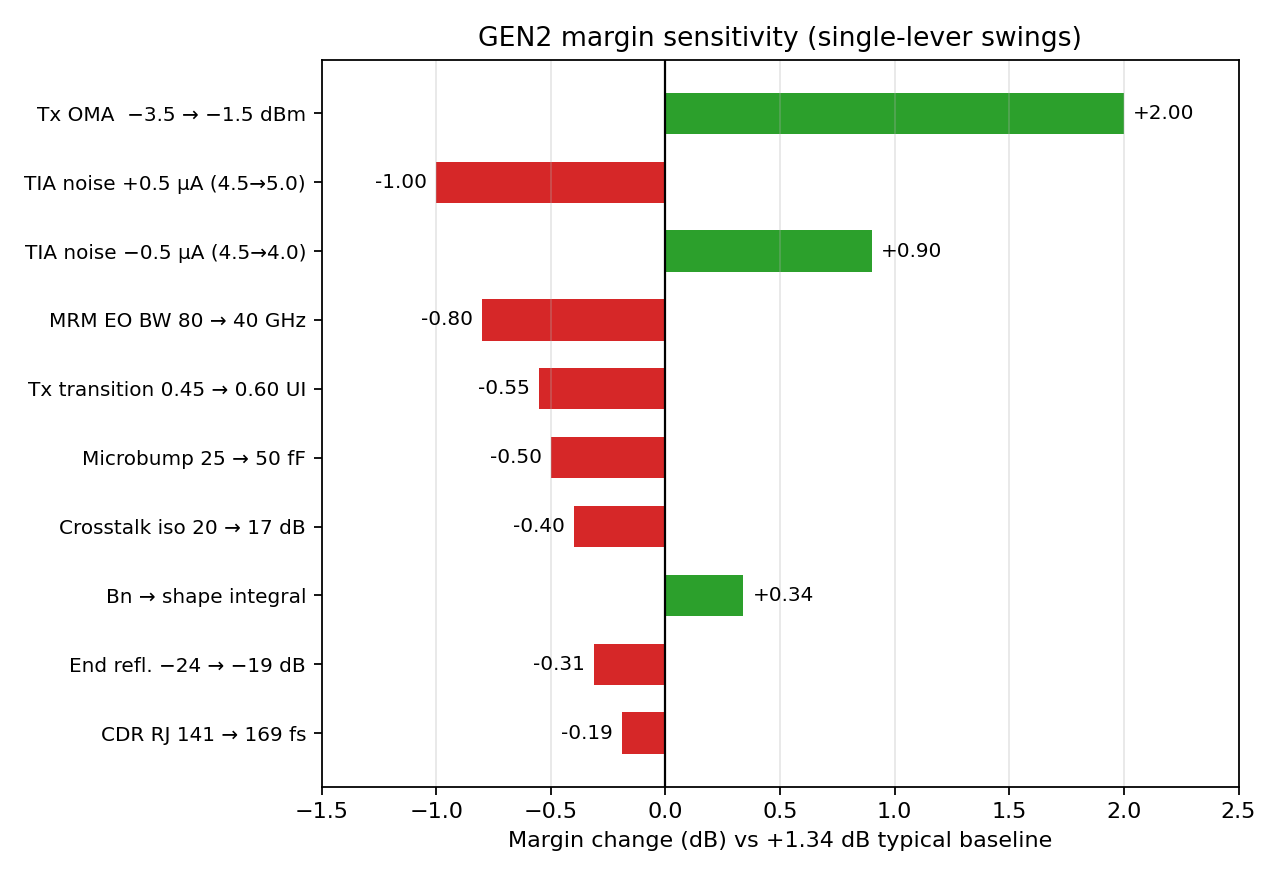
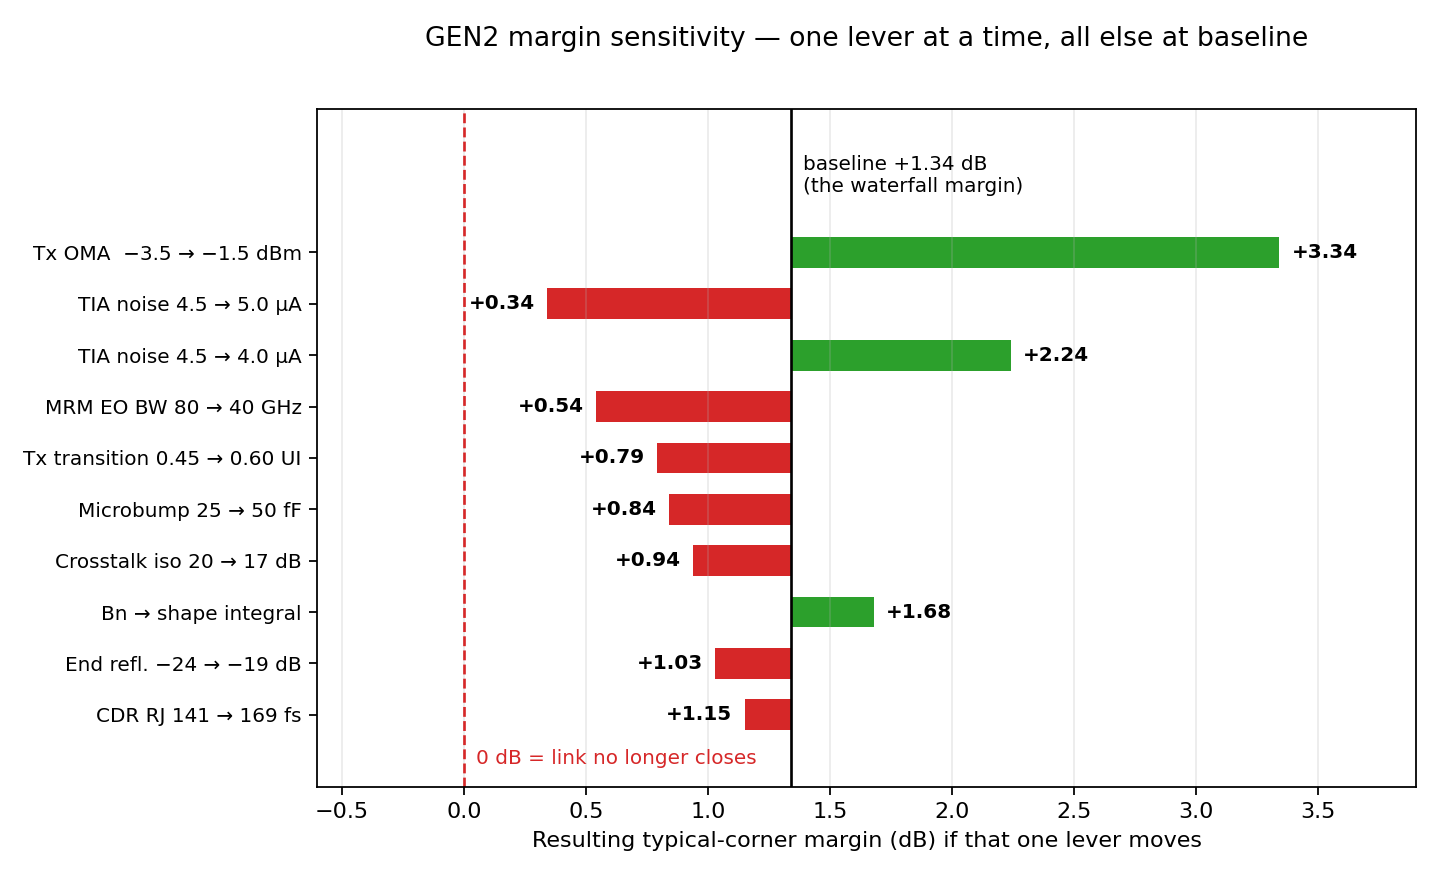
Improve link budget summary waterfall and sensitivity figures.
Clarifies margin-axis conventions in the figure script, refreshes plots, and adds caption guidance in the results summary.

diff --git a/oci_msa/oci-link-budget-analysis/07_summary_figures.py b/oci_msa/oci-link-budget-analysis/07_summary_figures.py
@@ -2,8 +2,11 @@
 07 - Figures for the results-only summary (OCI_Link_Budget_Summary.md).
 
 Produces:
-  - fig_waterfall.png : GEN2 typical-corner budget waterfall (floor + stack vs delivered)
-  - fig_tornado.png   : GEN2 margin sensitivity tornado (single-lever swings, report section 8)
+  - fig_waterfall.png : GEN2 typical-corner budget waterfall (floor + stack -> required
+                        OMA, vs delivered OMA; margin = shaded gap)
+  - fig_tornado.png   : GEN2 margin sensitivity (bars run from the +1.34 dB baseline to
+                        the resulting margin when one lever moves; same axis convention
+                        as the waterfall's margin)
 
 All numbers are taken from the report / scripts 04-05 (BWn = 1.5x f3dB convention).
 """
@@ -26,51 +29,71 @@ REQUIRED = -7.34   # floor + unrounded stack (4.07)
 DELIVERED = -6.0   # Tx OMA -3.5 dBm - 2.5 dB link IL
 MARGIN = DELIVERED - REQUIRED
 
-fig, ax = plt.subplots(figsize=(9, 5))
-labels = ["Floor"] + [n for n, _ in LINES] + ["Required", "Delivered"]
-bottoms, heights, colors = [], [], []
+fig, ax = plt.subplots(figsize=(10, 5.5))
+labels = ["Receiver\nfloor"] + [n for n, _ in LINES] + ["Required\nOMA", "Delivered\nOMA"]
+n = len(labels)
 
-bottoms.append(FLOOR); heights.append(0.001); colors.append("#1f77b4")
+# margin band, drawn first so bars sit on top
+ax.axhspan(REQUIRED, DELIVERED, color="#2ca02c", alpha=0.12)
+
+# floor level bar
+ax.bar(0, 0.12, bottom=FLOOR - 0.12, color="#1f77b4", width=0.8)
+ax.text(0, FLOOR - 0.35, f"{FLOOR:.2f}", ha="center", fontsize=9, fontweight="bold")
+
 run = FLOOR
-for _, v in LINES:
-    bottoms.append(run); heights.append(v); colors.append("#ff7f0e")
+levels = [FLOOR]
+for i, (nm, v) in enumerate(LINES, start=1):
+    ax.bar(i, v, bottom=run, color="#ff7f0e", width=0.8, edgecolor="white")
+    ax.text(i, run + v + 0.10, f"+{v:.2f}", ha="center", fontsize=9)
     run += v
-bottoms.append(REQUIRED); heights.append(0.001); colors.append("#d62728")
-bottoms.append(DELIVERED); heights.append(0.001); colors.append("#2ca02c")
+    levels.append(run)
 
-x = range(len(labels))
-for xi, b, h, c in zip(x, bottoms, heights, colors):
-    if h <= 0.001:
-        ax.hlines(b, xi - 0.4, xi + 0.4, color=c, linewidth=3)
-    else:
-        ax.bar(xi, h, bottom=b, color=c, width=0.8, edgecolor="white")
+# step connectors between cumulative levels
+for i in range(len(levels) - 1):
+    ax.plot([i + 0.4, i + 1 - 0.4], [levels[i + 1] - LINES[i][1], levels[i + 1] - LINES[i][1]],
+            color="gray", linewidth=0.8, linestyle=":")
 
-ax.hlines(DELIVERED, -0.5, len(labels) - 0.5, color="#2ca02c", linestyle="--", linewidth=1)
-ax.annotate(f"margin +{MARGIN:.2f} dB",
-            xy=(len(labels) - 1.55, (REQUIRED + DELIVERED) / 2),
-            fontsize=11, color="#2ca02c", fontweight="bold", ha="right", va="center")
-ax.annotate("", xy=(len(labels) - 1.5, DELIVERED), xytext=(len(labels) - 1.5, REQUIRED),
-            arrowprops=dict(arrowstyle="<->", color="#2ca02c"))
+# required and delivered level bars
+ax.bar(n - 2, 0.12, bottom=REQUIRED - 0.12, color="#d62728", width=0.8)
+ax.text(n - 2, REQUIRED - 0.35, f"{REQUIRED:.2f}", ha="center", fontsize=9,
+        fontweight="bold", color="#d62728")
+ax.bar(n - 1, 0.12, bottom=DELIVERED - 0.12, color="#2ca02c", width=0.8)
+ax.text(n - 1, DELIVERED + 0.15, f"{DELIVERED:.2f}", ha="center", fontsize=9,
+        fontweight="bold", color="#2ca02c")
 
-vals = [f"{FLOOR:.2f}"] + [f"+{v:.2f}" for _, v in LINES] + [f"{REQUIRED:.2f}", f"{DELIVERED:.2f}"]
-for xi, (b, h, t) in enumerate(zip(bottoms, heights, vals)):
-    ax.text(xi, b + max(h, 0.001) + 0.12, t, ha="center", fontsize=9)
+# guide lines across the chart at required and delivered
+ax.axhline(REQUIRED, color="#d62728", linewidth=0.8, linestyle="--", alpha=0.6)
+ax.axhline(DELIVERED, color="#2ca02c", linewidth=0.8, linestyle="--", alpha=0.6)
 
-ax.set_xticks(list(x))
-ax.set_xticklabels(labels, rotation=30, ha="right", fontsize=9)
+# margin arrow between the two levels
+ax.annotate("", xy=(n - 1.5, DELIVERED), xytext=(n - 1.5, REQUIRED),
+            arrowprops=dict(arrowstyle="<->", color="#2ca02c", linewidth=1.5))
+ax.text(n - 1.62, (REQUIRED + DELIVERED) / 2, f"margin\n+{MARGIN:.2f} dB",
+        fontsize=11, color="#2ca02c", fontweight="bold", ha="right", va="center")
+
+ax.text(0.02, 0.97,
+        "Read left to right: penalties stack on the receiver noise floor to give the\n"
+        "required OMA (\u22127.34). Delivered OMA (\u22126.00 = Tx \u22123.5 dBm \u2212 2.5 dB link IL)\n"
+        "sits above it; the gap is the +1.34 dB margin.",
+        transform=ax.transAxes, fontsize=9, va="top",
+        bbox=dict(boxstyle="round,pad=0.4", facecolor="white", edgecolor="lightgray"))
+
+ax.set_xticks(range(n))
+ax.set_xticklabels(labels, fontsize=9)
 ax.set_ylabel("OMA (dBm)")
-ax.set_title("GEN2 budget waterfall - typical Tx corner (106.25 GBd NRZ CPO)")
-ax.set_ylim(-12.3, -4.8)
-ax.grid(axis="y", alpha=0.3)
+ax.set_title("GEN2 budget waterfall — typical Tx corner (106.25 GBd NRZ CPO)")
+ax.set_ylim(-12.4, -4.4)
+ax.grid(axis="y", alpha=0.25)
 fig.tight_layout()
 fig.savefig("fig_waterfall.png", dpi=160)
 print("wrote fig_waterfall.png")
 
-# ---------------- tornado (GEN2 margin sensitivity, report section 8) ----------------
-SENS = [  # (label, delta dB on the +1.34 dB typical margin)
+# ---------------- sensitivity (resulting margin per single lever) ----------------
+BASE = 1.34  # typical-corner margin, same number as the waterfall gap
+SENS = [  # (label, delta dB on the typical margin)
     ("Tx OMA  \u22123.5 \u2192 \u22121.5 dBm", +2.0),
-    ("TIA noise +0.5 \u00b5A (4.5\u21925.0)", -1.0),
-    ("TIA noise \u22120.5 \u00b5A (4.5\u21924.0)", +0.9),
+    ("TIA noise 4.5 \u2192 5.0 \u00b5A", -1.0),
+    ("TIA noise 4.5 \u2192 4.0 \u00b5A", +0.9),
     ("MRM EO BW 80 \u2192 40 GHz", -0.8),
     ("Tx transition 0.45 \u2192 0.60 UI", -0.55),
     ("Microbump 25 \u2192 50 fF", -0.5),
@@ -79,21 +102,29 @@ SENS = [  # (label, delta dB on the +1.34 dB typical margin)
     ("End refl. \u221224 \u2192 \u221219 dB", -0.31),
     ("CDR RJ 141 \u2192 169 fs", -0.19),
 ]
-SENS.sort(key=lambda t: abs(t[1]))
+SENS.sort(key=lambda t: abs(t[1]))  # largest |delta| ends up at the top of the barh
 
-fig2, ax2 = plt.subplots(figsize=(8, 5.5))
-y = range(len(SENS))
+fig2, ax2 = plt.subplots(figsize=(9, 5.5))
 for yi, (lab, d) in enumerate(SENS):
-    ax2.barh(yi, d, color="#2ca02c" if d > 0 else "#d62728", height=0.6)
-    ax2.text(d + (0.04 if d > 0 else -0.04), yi, f"{d:+.2f}",
-             va="center", ha="left" if d > 0 else "right", fontsize=9)
-ax2.axvline(0, color="black", linewidth=1)
-ax2.set_yticks(list(y))
+    res = BASE + d
+    ax2.barh(yi, d, left=BASE, color="#2ca02c" if d > 0 else "#d62728", height=0.6)
+    ax2.text(res + (0.05 if d > 0 else -0.05), yi, f"{res:+.2f}",
+             va="center", ha="left" if d > 0 else "right", fontsize=9, fontweight="bold")
+
+ax2.set_ylim(-1.4, len(SENS) + 1.8)
+ax2.axvline(BASE, color="black", linewidth=1.2)
+ax2.text(BASE + 0.05, len(SENS) + 0.1, f"baseline +{BASE:.2f} dB\n(the waterfall margin)",
+         fontsize=9, ha="left", va="bottom")
+ax2.axvline(0, color="#d62728", linewidth=1.2, linestyle="--")
+ax2.text(0.05, -0.85, "0 dB = link no longer closes", fontsize=9, color="#d62728",
+         ha="left", va="center")
+
+ax2.set_yticks(range(len(SENS)))
 ax2.set_yticklabels([lab for lab, _ in SENS], fontsize=9)
-ax2.set_xlabel("Margin change (dB) vs +1.34 dB typical baseline")
-ax2.set_title("GEN2 margin sensitivity (single-lever swings)")
-ax2.set_xlim(-1.5, 2.5)
-ax2.grid(axis="x", alpha=0.3)
+ax2.set_xlabel("Resulting typical-corner margin (dB) if that one lever moves")
+ax2.set_title("GEN2 margin sensitivity — one lever at a time, all else at baseline", pad=28)
+ax2.set_xlim(-0.6, 3.9)
+ax2.grid(axis="x", alpha=0.25)
 fig2.tight_layout()
 fig2.savefig("fig_tornado.png", dpi=160)
 print("wrote fig_tornado.png")

diff --git a/oci_msa/oci-link-budget-analysis/OCI_Link_Budget_Summary.md b/oci_msa/oci-link-budget-analysis/OCI_Link_Budget_Summary.md
@@ -61,6 +61,9 @@ generations; GEN1 books 0.24 dB, GEN2 0.205 dB).
 
 ![GEN2 budget waterfall](./fig_waterfall.png)
 
+*Penalties stack on the receiver floor (−11.41) to give the required OMA (−7.34); the
+delivered OMA (−6.00) sits above it, and the gap is the +1.34 dB margin.*
+
 | Penalty | GEN1-CPO @ 53 GBd | GEN2 @ 106 GBd |
 |---|---:|---:|
 | ER/shot + RIN | 0.86 | 1.16 |
@@ -118,7 +121,11 @@ channel and costs 0.27 dB of slice-DCD jitter.
 
 ## 6. Margin sensitivity
 
-![GEN2 margin sensitivity tornado](./fig_tornado.png)
+![GEN2 margin sensitivity](./fig_tornado.png)
+
+*Each bar starts at the +1.34 dB baseline (the waterfall margin) and ends at the
+margin that results if that one lever moves, all else unchanged; the label is the
+resulting margin. All levers stay right of 0 dB — no single slip breaks the link.*
 
 PD capacitance (30–40 fF assumed, unmeasured) is not a margin lever but a
 **buildability gate**: 60 fF strands the 4.0 µA TIA noise line.
